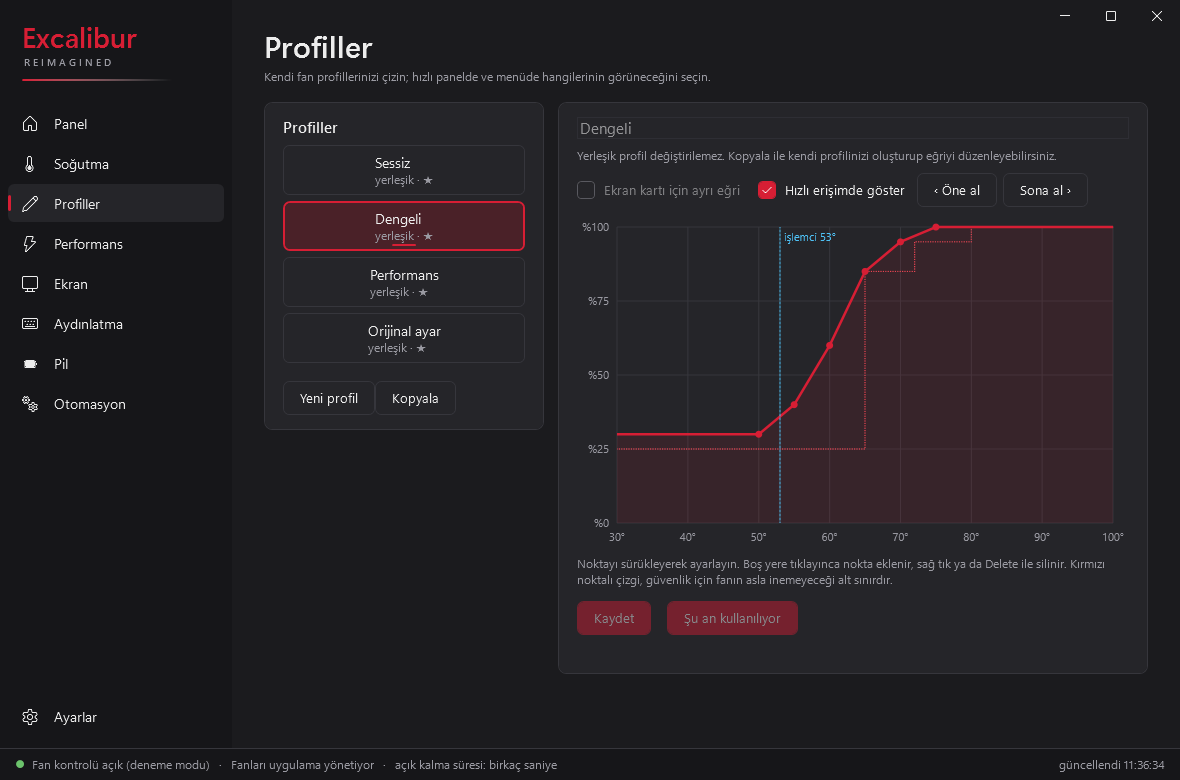
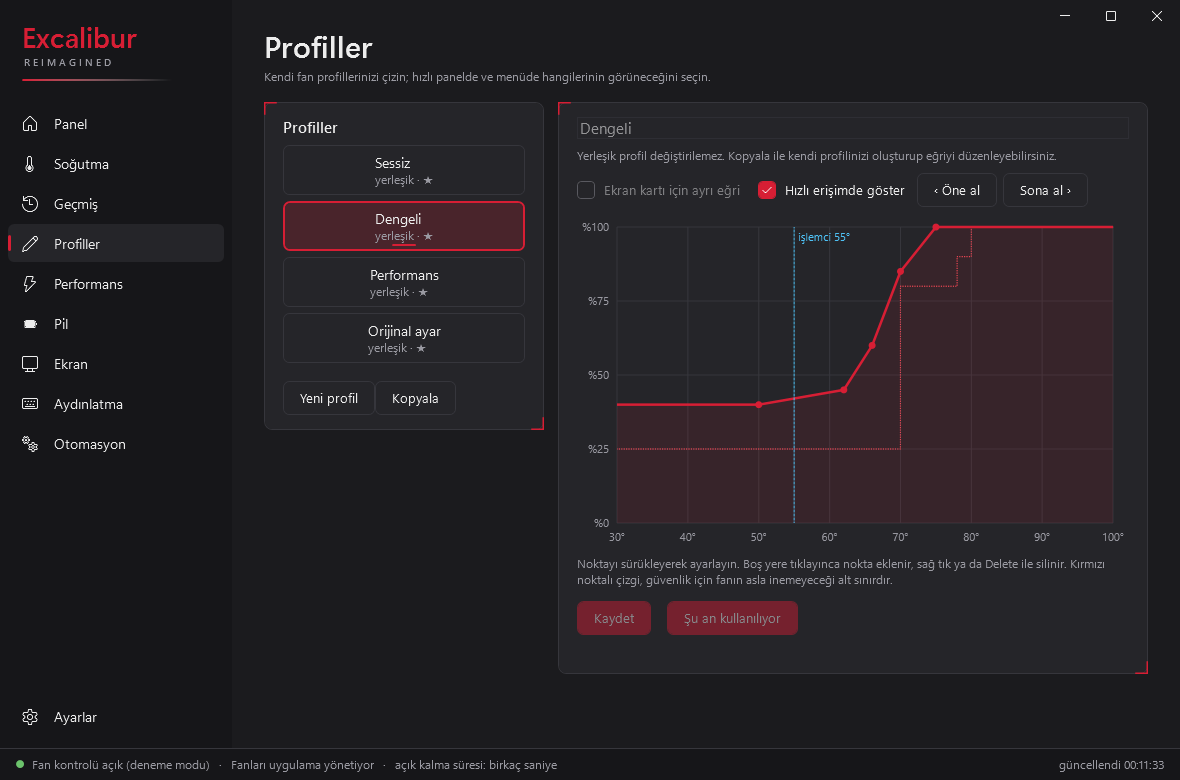
Orijinal çizgi her sürümde (bilinmeyende "G870 tablosu"); yeni ekran görüntüleri
- Gri çizgi tablosu bilinmeyen EC sürümlerinde de görünür, adı "Orijinal ayar
  (G870 tablosu)": kullanıcı Orijinal profilde fan noktalarının çizgiye
  oturmadığını görürse sürümüyle bildirebilir. README buna göre.
- Panel, Soğutma, Profiller, sağ tık menüsü yeni hâliyle; hızlı panel eklendi.

Claude-Session: https://claude.ai/code/session_01UUoyVHV32qA9Ws4R1rAURN

diff --git a/src/Excalibur.App/Ui/Pages/FanPage.xaml b/src/Excalibur.App/Ui/Pages/FanPage.xaml
@@ -48,7 +48,7 @@
                         </StackPanel>
                         <StackPanel x:Name="StockLegend">
                             <Rectangle Width="16" Height="2" Fill="{DynamicResource SubText}" VerticalAlignment="Center" />
-                            <TextBlock Text="Orijinal ayar" />
+                            <TextBlock x:Name="StockLegendText" Text="Orijinal ayar" />
                         </StackPanel>
                         <StackPanel>
                             <Rectangle Width="16" Height="2" Fill="{DynamicResource Bad}" VerticalAlignment="Center" />

diff --git a/src/Excalibur.App/Ui/Controls/CurveChart.cs b/src/Excalibur.App/Ui/Controls/CurveChart.cs
@@ -26,11 +26,14 @@ internal sealed class CurveChart : FrameworkElement
     private static readonly (int C, int P)[] StockHigh =
         [(MinC, 60), (45, 60), (45, 64), (47, 64), (47, 68), (56, 68), (56, 72), (59, 72), (59, 84), (62, 84), (62, 94), (65, 94), (65, 100), (MaxC, 100)];
     private (int C, int P)[] StockSteps => _status?.Power?.Mode == Excalibur.Core.Power.PowerMode.HighPerformance ? StockHigh : Stock;
-    // Settings can hide the line (on by default). Drawn only on the EC versions whose firmware table is known: other models
-    // have their own tables, and PawnIO cannot read the EC's table memory (0x500..) to draw theirs.
+    // Settings can hide the line (on by default). The table is known only for these EC versions; PawnIO cannot read the EC's
+    // table memory (0x500..), so other models get the G870's line, labelled as such: users on Original can see whether the fan
+    // dots sit on it and report their version when they do not.
     private static readonly HashSet<string> StockTableEcVersions = new(StringComparer.OrdinalIgnoreCase) { "P008B0", "P009B0" };
-    private bool ShowStock => TryFindResource("StockLine") is not false && _status?.EcVersion is { } ec && StockTableEcVersions.Contains(ec);
+    private bool ShowStock => TryFindResource("StockLine") is not false;
     internal bool ShowsStock => ShowStock;
+    internal bool StockIsKnown => _status?.EcVersion is { } ec && StockTableEcVersions.Contains(ec);
+    internal string StockLabel => StockIsKnown ? "Orijinal ayar" : "Orijinal ayar (G870 tablosu)";
     // Safety floors: 25% always (30% through WMI), 80% from 70 C, 90% from 78 C, 100% when hot (>= 80 C for 3 s).
     internal static readonly (int C, int P)[] Floors = FloorsFrom(SafetyPolicy.AbsoluteFloor);
 
@@ -272,7 +275,7 @@ internal sealed class CurveChart : FrameworkElement
                 lines.Add(($"Ekran kartı fanı: %{gpu}  (~{Texts.Rpm(gpu)} rpm)", Res("Ok")));
             }
         }
-        if (ShowStock) lines.Add(($"Orijinal ayar: %{StepAt(StockSteps, c)}", Res("SubText")));
+        if (ShowStock) lines.Add(($"{StockLabel}: %{StepAt(StockSteps, c)}", Res("SubText")));
         lines.Add(($"İndirilemeyen alt sınır: %{StepAt(ThroughWmi ? WmiFloors : Floors, c)}", Res("Bad")));
         Box(dc, lines, At(c, 100).X + 10, _plot.Top + 6, m.X);
     }

diff --git a/src/Excalibur.App/Ui/Pages/FanPage.xaml.cs b/src/Excalibur.App/Ui/Pages/FanPage.xaml.cs
@@ -99,6 +99,7 @@ public partial class FanPage : UserControl
         CpuLegend.Visibility = profile?.IsEcAuto == true ? Visibility.Collapsed : Visibility.Visible;
         CpuLegendText.Text = separateGpu ? "İşlemci eğrisi" : "Profil eğrisi";
         StockLegend.Visibility = Chart.ShowsStock ? Visibility.Visible : Visibility.Collapsed;
+        StockLegendText.Text = Chart.StockLabel;
         CurveTitle.Text = $"Eğri — {ProfileNames.Label(s.Profile, s.ManualUntil)}";
         Chart.Show(profile, s);
 

diff --git a/README.md b/README.md
@@ -29,6 +29,7 @@ Orijinal Excalibur Control Center bazen yavaş açılır, arka planda gereksiz k
 </p>
 <p align="center">
   <img src="assets/screenshots/profiller.png" width="49%" alt="Profiller" />
+  <img src="assets/screenshots/hizli-panel.png" width="29%" alt="Hızlı panel" />
   <img src="assets/screenshots/tray-menu.png" width="18%" alt="Simge alanı menüsü" />
 </p>
 <p align="center">
@@ -247,7 +248,7 @@ xychart-beta
 - Yani orijinal ayarda fanlar **boşta bile %52'nin altına inmez**; işlemci 55–65 °C arasına girince hızla %80–94'e çıkar. Uygulamanın profilleri bu yüzden boşta daha sessizdir.
 - Ekran kartı fanının tablosu aynı yüzdeleri kullanır, işlemci eşikleri biraz farklıdır (57/59/62/64/66 °C).
 - Denetleyicide başka bir donanım çeşidi için 8 kademeli, daha geç ısınan tablolar da var (66/69/72 °C); G870 bunları kullanmıyor.
-- Soğutma sayfasındaki gri kesik **"Orijinal ayar"** çizgisi bu tablodan çizilir ve seçili güç moduna göre değişir (Ayarlar > Görünüm'den gizlenebilir).
+- Soğutma sayfasındaki gri kesik **"Orijinal ayar"** çizgisi bu tablodan çizilir ve seçili güç moduna göre değişir (Ayarlar > Görünüm'den gizlenebilir). Tablo yalnız `P008B0` ve `P009B0` için biliniyor; diğer sürümlerde çizgi "Orijinal ayar (G870 tablosu)" adıyla G870'inkini gösterir. Orijinal profildeyken fan noktaları bu çizgiye oturmuyorsa sizin modelinizin tablosu farklıdır: Ayarlar > Hakkında'daki fan yazılımı (EC) sürümüyle bir Issue açarsanız ekleriz.
 
 
 ### Pil ayarları: Battery Boost, şarj
